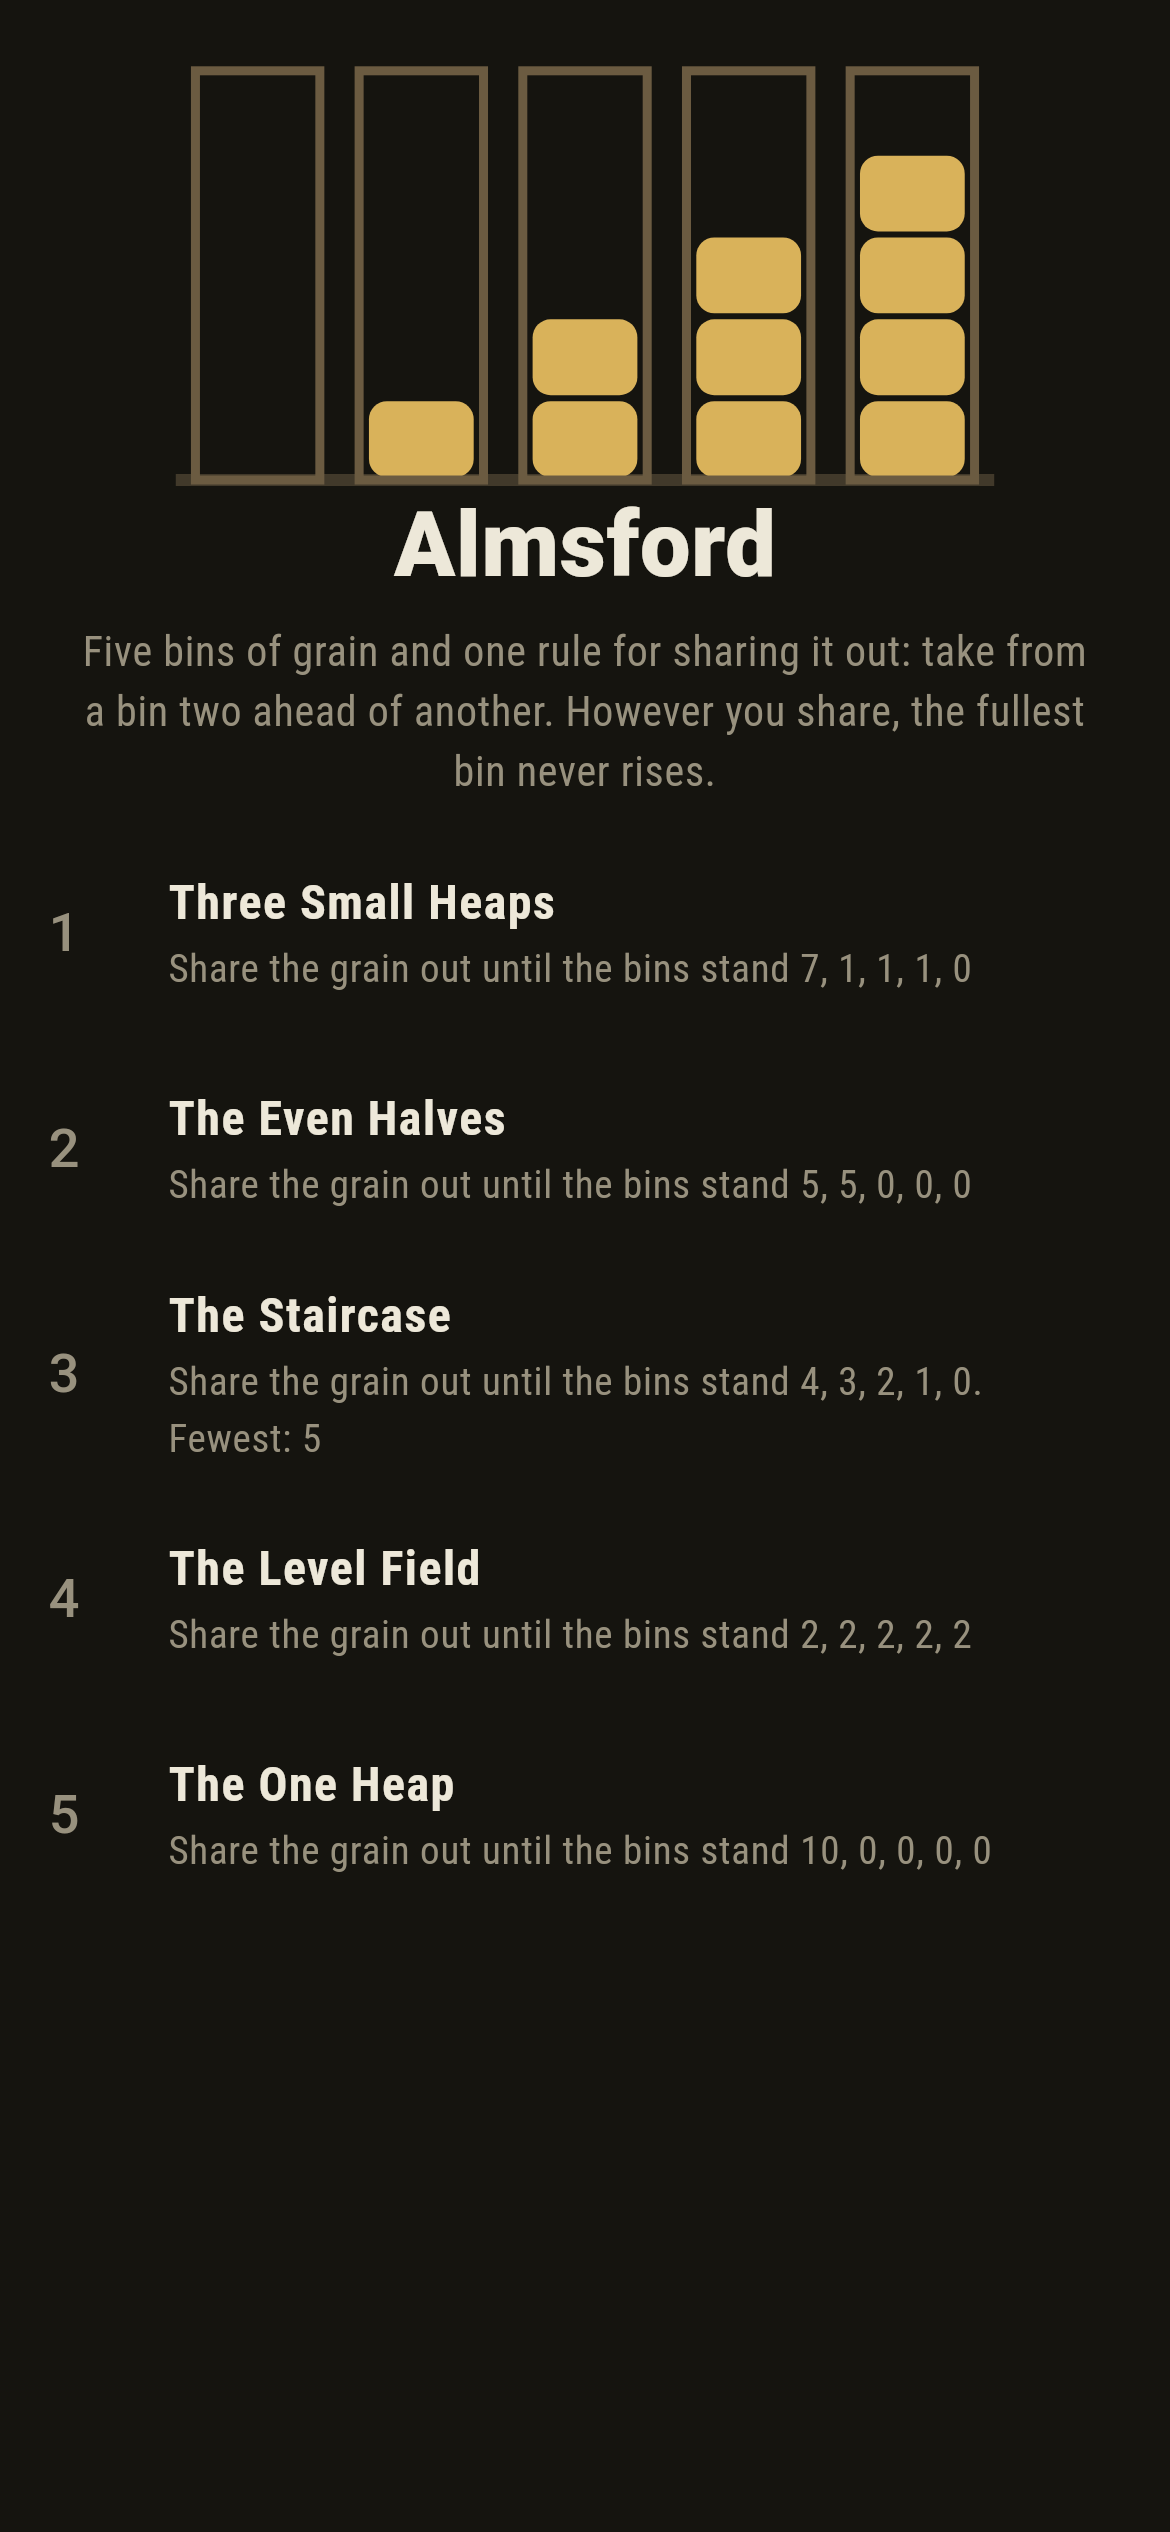
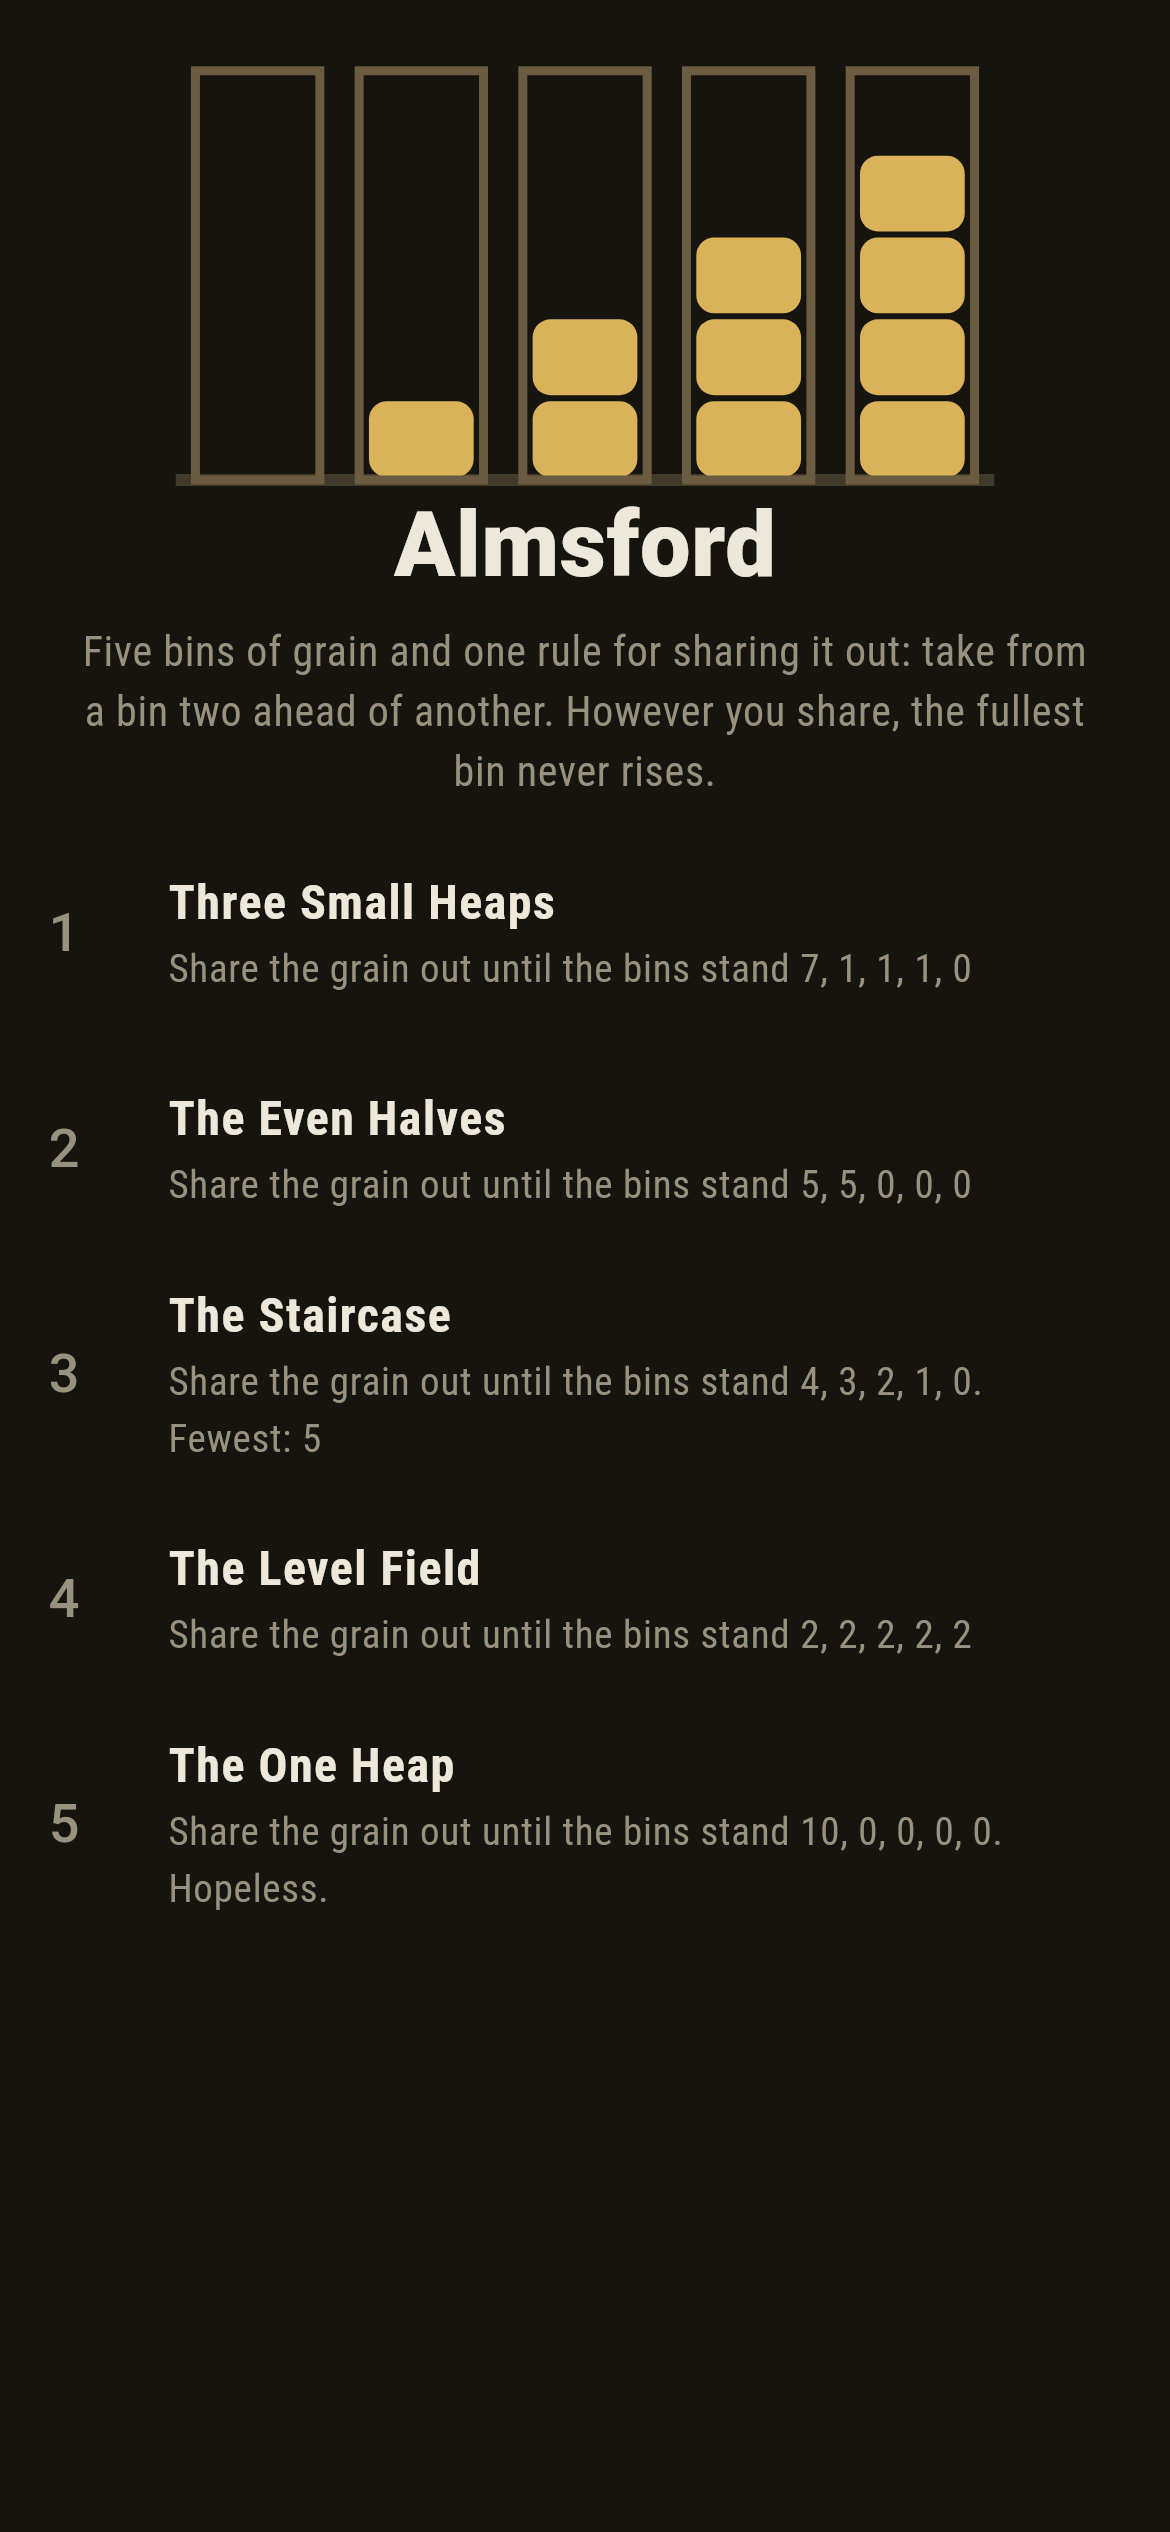
Almsford: what the checkers found in the prose

Changed region(s): [[0.1231, 0.6864, 0.8615, 0.7488], [0.0308, 0.7176, 0.0615, 0.7488]]

diff --git a/Almsford/lib/alms/levels.dart b/Almsford/lib/alms/levels.dart
@@ -21,8 +21,9 @@ class Levels {
       fewest: 4,
       note: '10 of the 1,001 arrangements stand in this shape. Four shares '
           'from the opening, all of them out of the same bin and into the '
-          'same one, which is as direct as a share-out gets. Three empty '
-          'bins stay empty because nothing in them can pull.',
+          'same one, which is as direct as a share-out gets. The other three '
+          'bins are never given anything, though nothing stops them: a bin '
+          'holding two or more can always give to an empty one.',
     ),
     Level(
       name: 'The Staircase',

diff --git a/Almsford/lib/ui/title_screen.dart b/Almsford/lib/ui/title_screen.dart
@@ -73,7 +73,7 @@ class _TitleScreenState extends State<TitleScreen> {
                       ),
                       subtitle: Text(
                         '${level.task[0].toUpperCase()}${level.task.substring(1)}'
-                        '${fewest == null ? '' : '. Fewest: $fewest'}',
+                        '${!level.winnable ? '. Hopeless.' : fewest == null ? '' : '. Fewest: $fewest'}',
                         style: const TextStyle(
                             color: Palette.inkDim, fontSize: 13),
                       ),

diff --git a/Almsford/README.md b/Almsford/README.md
@@ -92,7 +92,8 @@ every arrangement of the 10 measures over the 5 bins taken, 1,001 of them standi
 Screenshots are drawn by `test/showcase_test.dart` at real phone sizes
 with the app's own painter, then copied into `docs/` as they came out;
 every measure in them was moved by a tap on a bin, so nothing pictured
-is an arrangement the game could not reach. The logo and every launcher
+is an arrangement the game could not reach. The bins across the top of
+the sham shot are the mark rather than a run of shares. The logo and every launcher
 icon come out of `test/mark_test.dart` the same way: the mark is the
 staircase, 0, 1, 2, 3, 4.
 
